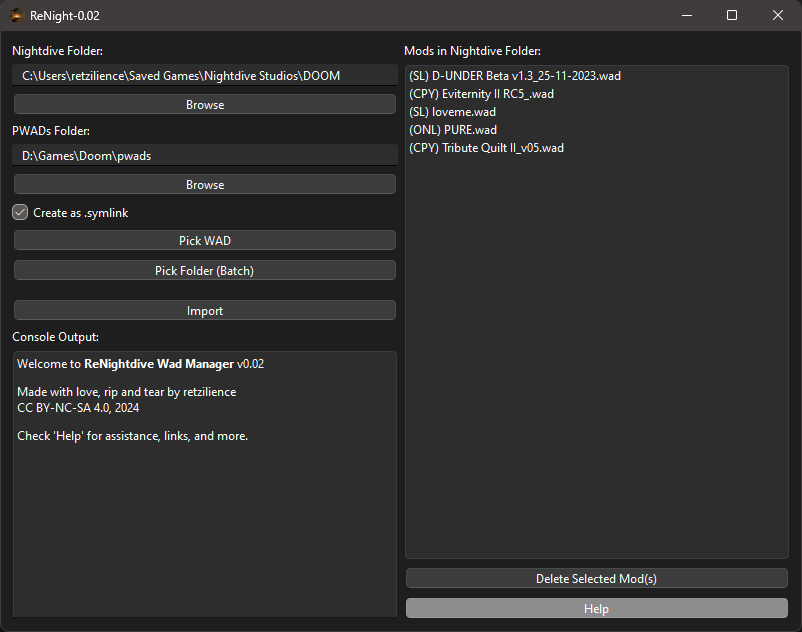
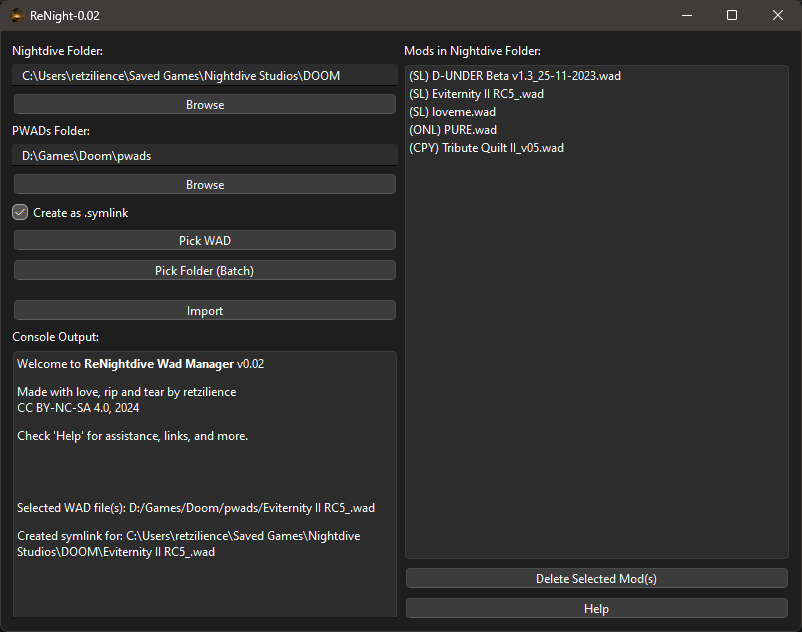
Updated imgs and README.md

diff --git a/README.md b/README.md
@@ -24,6 +24,10 @@
   ![Windows UI](imgs/ui.png)
   ![Game UI](imgs/game.png)
 
+### Symlinked Eviternity II Working Example
+
+  ![Game UI](imgs/working_gif)
+
 ---
 
 ## Table of Contents
@@ -103,7 +107,7 @@ I'm excited to announce that ReNight now includes a compiled Linux version! The 
 
 <details>
   <summary>Click to view Linux UI image</summary>
-  
+
   ![Linux UI](imgs/linux_ui.png)
 </details>
 
